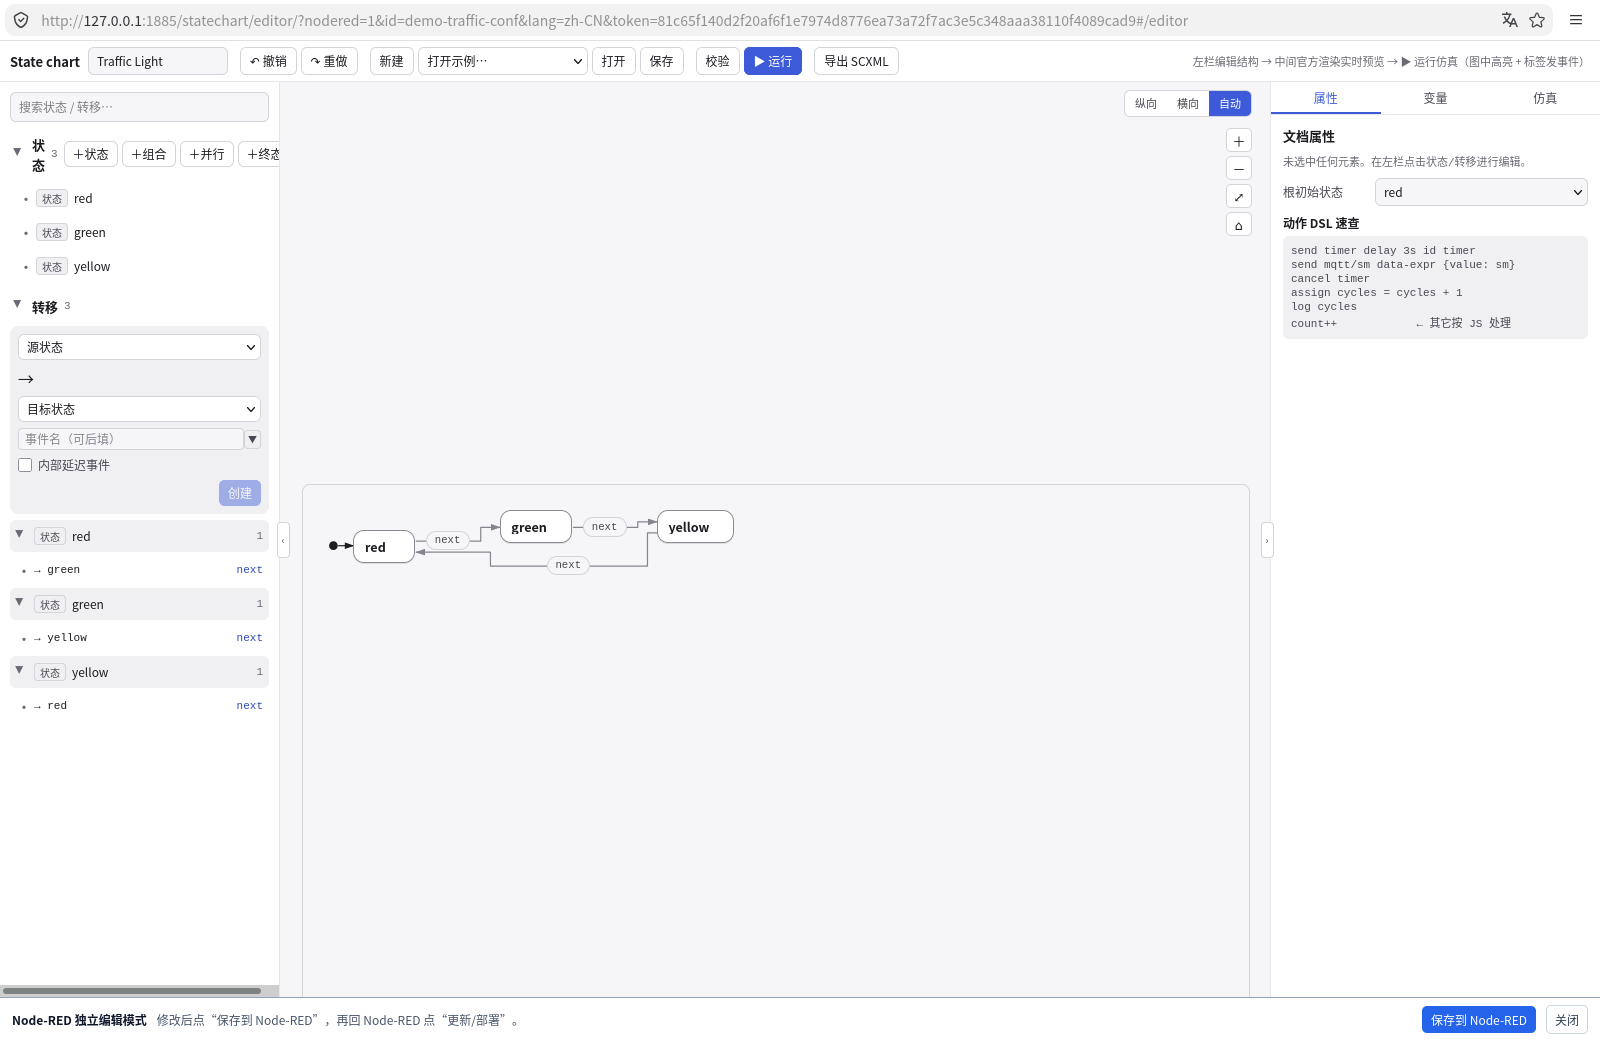
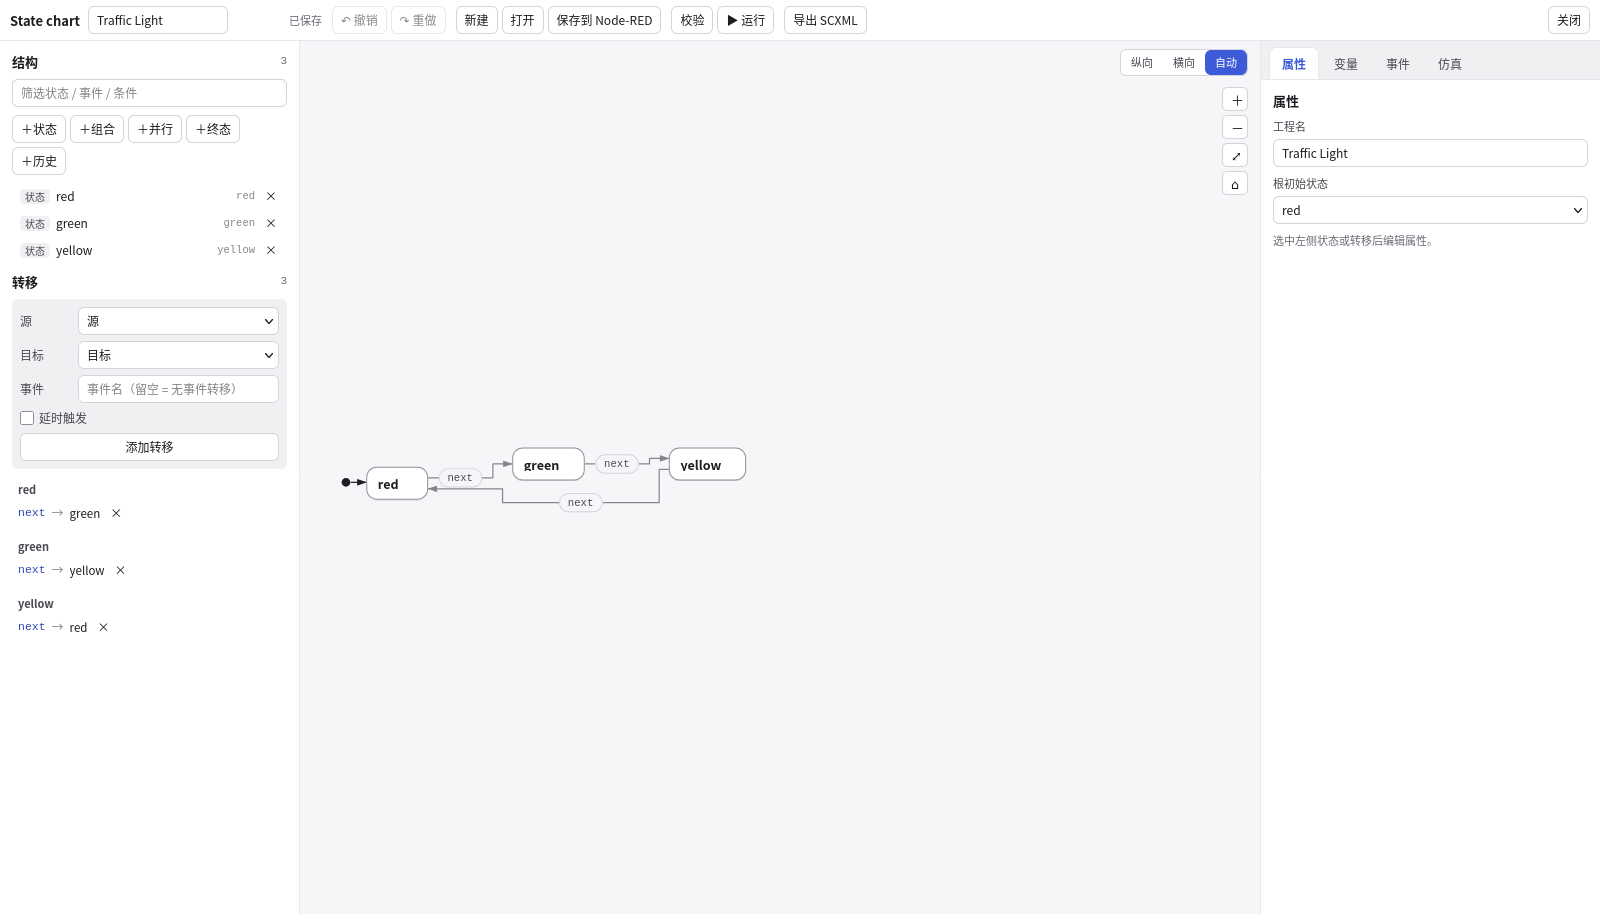
docs: refresh 0.2.0 documentation and unreleased status

diff --git a/docs/README.md b/docs/README.md
@@ -1,0 +1,46 @@
+# 文档索引
+
+> 更新：2026-11-11 · 当前 npm 版本：`0.2.0` · 测试服务器：`0.2.0` + 名称同步修复
+> 0.2.0 之后的修复尚未发布，见 [`CHANGELOG.md`](../CHANGELOG.md) 的 `Unreleased` 段。
+
+## 用户文档
+
+| 文档 | 内容 | 状态 |
+| --- | --- | --- |
+| [README](../README.md) | 安装、节点、消息契约、监控、兼容性 | 当前 |
+| [README.en](../README.en.md) | English version | 当前 |
+| [CHANGELOG](../CHANGELOG.md) | 版本变更；`Unreleased` 记录待发修复 | 当前 |
+| [SECURITY](../SECURITY.md) | 支持版本与能力 token 的威胁模型 | 当前 |
+| [examples/README](../examples/README.md) | 示例 flow 与操作顺序 | 当前 |
+| [NOTICE](../NOTICE) / [THIRD_PARTY_LICENSES](../THIRD_PARTY_LICENSES.md) | 第三方组件与许可 | 当前 |
+
+## 开发与维护
+
+| 文档 | 内容 | 状态 |
+| --- | --- | --- |
+| [CONTRIBUTING](../CONTRIBUTING.md) | 本地开发、构建、测试、提交约定 | 当前 |
+| [重构路线](refactor-roadmap.md) | 以 `statechart-kit` 为核心的迁移记录、验收与发布状态 | 当前（含 0.2.1 计划） |
+| [资源消耗评估](resource-profile.md) | tarball、浏览器资源、服务端内存/CPU | 当前（2026-11-11 复测） |
+| [完整编辑器宿主](../editor-page/README.md) | `mountEditor` + postMessage adapter、关闭/保存约定 | 当前 |
+| [P4 设计（历史）](p4-standalone-editor.md) | 0.2.0 之前的 donor SPA 方案 | **历史，不要按本文操作** |
+
+## 历史与宣传材料
+
+| 文档 | 说明 |
+| --- | --- |
+| [community-post/](../community-post/) | 0.1.x 社区宣传稿与旧截图；0.2.0 已更换编辑器，截图/描述可能过时 |
+
+截图：`docs/images/standalone-editor.png` 已于 2026-11-11 更新为 0.2.0 的
+`statechart-kit` 编辑器；`monitor-sidebar.png` 仍是当前侧栏监控。
+
+## 开发内部（不随 npm 包发布）
+
+- `.opencode/skills/node-red-scxmljs-dev/`：会话交接、测试服务器、Node-RED API 经验。
+  其中 `project-state.md` / `roadmap.md` 的当前状态以本索引与
+  [重构路线](refactor-roadmap.md) 为准；旧 P0–P4 段落仅作历史。
+
+## 已知文档缺口
+
+- `community-post` 未按 0.2.0 重写，仅作历史材料；
+- 完整浏览器套件（`test:browser` / `test:p4`）尚未在测试服务器上稳定跑通，
+  发布说明中不要声称浏览器矩阵已验证。

diff --git a/docs/refactor-roadmap.md b/docs/refactor-roadmap.md
@@ -1,6 +1,6 @@
 # 重构路线：以 statechart-kit 为核心
 
-> 状态：M0–M5 完成并发布（2026-11-11）；kit 0.8.0 与插件 0.2.0 均为 npm latest；完整浏览器 smoke 待补
+> 状态：M0–M5 完成，0.2.0 已发布（2026-11-11）；0.2.0 后修复（编辑器名称同步）待在批量修复后发 0.2.1；完整浏览器 smoke 待补
 > 目标版本：`0.2.0`
 > 核心依赖：`statechart-kit@0.8.0`（已打 tag；npm `latest` 仍为 0.7.0）
 > 关联文档：[完整编辑器设计](p4-standalone-editor.md)（历史方案）、[资源消耗评估](resource-profile.md)
@@ -348,3 +348,14 @@ STATECHART_BROWSER=1 GECKODRIVER=... NODERED_URL=http://localhost:1880/ npm run 
 - 2026-11-11：`statechart-kit@0.8.0` 已发布到 npm `latest`（gitHead `f880589`）；宿主 devDependency 改为精确 `0.8.0`，CI 不再 clone/build kit。
 - 2026-11-11：插件 `@changzhen976/node-red-contrib-statechart@0.2.0` 已发布到 npm `latest`（gitHead `4d75d7b`），tag `v0.2.0` 已推 GitHub/Gitea；从 npm 干净安装的 dist 与测试服务器哈希一致。
 - 待执行：完整浏览器 smoke（独立编辑器的关闭/二次确认 smoke 已通过）。
+
+## 15. 0.2.0 之后（未发布）
+
+- `fd90693 fix(editor): sync machine name between Node-RED and ProjectDoc`：
+  编辑器打开/保存时统一 Node-RED 配置节点名、`ProjectDoc.name` 与导出 SCXML 的
+  `<scxml name>`；测试服务器已部署该构建。
+- npm 上的 `0.2.0` **不包含**该修复。计划在本轮批量 bug 修复完成后发布 `0.2.1`
+  （先补 `CHANGELOG` 的 `Unreleased`，再 bump/tag/publish）。
+- `main` 有未推送提交（`fd90693` 名称同步 + 本次文档整理）；按用户要求等批量修复完成后再统一推送。
+- 完整浏览器套件（`test:browser` / `test:p4`）仍待补；独立编辑器的关闭/名称同步
+  已用针对性 Selenium 脚本验证。

diff --git a/README.md b/README.md
@@ -87,7 +87,7 @@ npm install /path/to/changzhen976-node-red-contrib-statechart-<version>.tgz
 
 支持添加/删除、父/子状态选择、根 initial、结构化 actions 编辑和实时结构校验；高级区可编辑原始 SCXML 或 ProjectDoc JSON。
 
-配置窗口还提供 **打开完整编辑器**：在新标签页打开全屏 Vue 编辑器，可切换所有状态图（state chart），编辑后通过 **保存到 Node-RED** 回写，再回到 Node-RED 点 Update/Deploy。
+配置窗口还提供 **打开完整编辑器**：在新标签页打开 `statechart-kit` 的全屏 Vue 编辑器；一次打开一台机器，编辑后通过 **保存到 Node-RED** 回写，再回到 Node-RED 点 Update/Deploy。
 
 ## 输入命令
 
@@ -161,6 +161,7 @@ msg.topic
 | Node-RED | 5.x（实测 5.0.9） |
 | Node.js | ≥ 22.9（推荐 24） |
 | 引擎 | `@tinyactors/scxmljs@0.2.0-dev.0` |
+| 编辑器 | `statechart-kit/vue`（构建期内联，运行时无额外依赖） |
 | XML | `@xmldom/xmldom` |
 | 模块格式 | CJS 入口，ESM 引擎动态加载 |
 
@@ -181,10 +182,11 @@ STATECHART_BROWSER=1 GECKODRIVER=/path/to/geckodriver \
 
 更多文档：
 
+- [文档索引](docs/README.md)
 - [重构路线：以 statechart-kit 为核心](docs/refactor-roadmap.md)
 - [示例说明](examples/README.md)
 - [资源消耗评估](docs/resource-profile.md)
-- [完整编辑器设计](docs/p4-standalone-editor.md)（历史方案，0.2.0 将被 kit 编辑器替换）
+- [完整编辑器设计（历史）](docs/p4-standalone-editor.md)（0.2.0 已由 kit 编辑器替换）
 - [贡献指南](CONTRIBUTING.md)
 
 ## 许可

diff --git a/README.en.md b/README.en.md
@@ -87,7 +87,7 @@ The `statechart-machine` dialog has three tables:
 
 Add/remove rows, select parents and initial states, edit structured actions and see structural validation. The advanced section accepts raw SCXML or ProjectDoc JSON.
 
-**Open full editor** launches a full-screen Vue editor in a new tab. It can switch between all state charts, edit them, and **Save to Node-RED** back into the parent editor; then click Update/Deploy in Node-RED.
+**Open full editor** launches the `statechart-kit` full-screen Vue editor in a new tab. One machine opens per window; use **Save to Node-RED** to write the document back, then click Update/Deploy in Node-RED.
 
 ## Commands
 
@@ -161,6 +161,7 @@ The default workflow is fully visual; you never need to touch XML. At runtime th
 | Node-RED | 5.x (tested 5.0.9) |
 | Node.js | ≥ 22.9 (24 recommended) |
 | Engine | `@tinyactors/scxmljs@0.2.0-dev.0` |
+| Editor | `statechart-kit/vue` (bundled at build time; no extra runtime dependency) |
 | XML | `@xmldom/xmldom` |
 | Module format | CJS entry; ESM engine loaded dynamically |
 
@@ -181,9 +182,11 @@ STATECHART_BROWSER=1 GECKODRIVER=/path/to/geckodriver \
 
 More documentation:
 
+- [Documentation index](docs/README.md)
+- [Refactor roadmap](docs/refactor-roadmap.md)
 - [Examples](examples/README.md)
 - [Resource profile](docs/resource-profile.md)
-- [Full editor design](docs/p4-standalone-editor.md)
+- [Full editor design (historical)](docs/p4-standalone-editor.md) — replaced by the kit editor in 0.2.0
 - [Contributing](CONTRIBUTING.md)
 
 ## License

diff --git a/docs/p4-standalone-editor.md b/docs/p4-standalone-editor.md
@@ -1,8 +1,11 @@
-# P4 设计：独立全屏状态机编辑器
+# P4 设计（历史）：独立全屏状态机编辑器
 
-> 状态：P4.1/P4.2 已实现（2026-11-09）；P4 首版可用，P4.3 为可选打磨。
-> 2026-11-11：本文的 donor SPA 方案将在 0.2.0 被 `statechart-kit` 编辑器替换，
-> 见 [重构路线](refactor-roadmap.md)。
+> 状态：**历史设计**（2026-11-09）。0.2.0 已用 `statechart-kit` 的编辑器替换
+> donor SPA；本文只记录当时的方案与取舍，**不要按本文操作**。当前实现见
+> [editor-page/README.md](../editor-page/README.md) 与
+> [重构路线](refactor-roadmap.md)。
+>
+> 原先的 P4.1/P4.2 实现记录保留在下方，作为迁移历史。
 > 结论：**可行，且推荐**。独立页面比 Node-RED 配置对话框更符合 creator 的常规操作，也比在 tray 里手写画布更省成本。
 
 ## 1. 为什么可行

diff --git a/SECURITY.md b/SECURITY.md
@@ -2,7 +2,7 @@
 
 ## Supported versions
 
-The latest published `0.1.x` release receives fixes. Older versions are not
+The latest published `0.2.x` release receives fixes. Older versions are not
 maintained.
 
 ## Reporting a vulnerability
@@ -23,7 +23,7 @@ reproduction when possible. Expect an initial response within a week.
 The nodes run inside the user's Node-RED instance, so they inherit its trust
 boundary. What the package itself does:
 
-- The monitor page, the standalone editor and their APIs are served from
+- The monitor page, the full-page editor and their APIs are served from
   Node-RED's admin HTTP server (`RED.httpAdmin`) and are not part of the
   runtime endpoints.
 - Those routes are gated by a per-process capability token that the editor

diff --git a/CONTRIBUTING.md b/CONTRIBUTING.md
@@ -3,6 +3,9 @@
 Thanks for taking a look. This package is a Node-RED node set plus a browser
 editor, so changes usually touch the runtime contract and the editor together.
 
+Project docs are indexed in [docs/README.md](docs/README.md); historical designs
+are marked there so they are not mistaken for current implementation notes.
+
 ## Setup
 
 ```sh

diff --git a/CHANGELOG.md b/CHANGELOG.md
@@ -1,5 +1,13 @@
 # Changelog
 
+## Unreleased
+
+### Fixed
+
+- The full-page editor now keeps the Node-RED config-node name, `ProjectDoc.name`
+  and the exported SCXML `<scxml name="…">` in sync. Opening the editor prefers
+  the dialog's Name field; saving from the editor updates the config node name.
+
 ## 0.2.0 — 2026-11-11
 
 ### Changed
